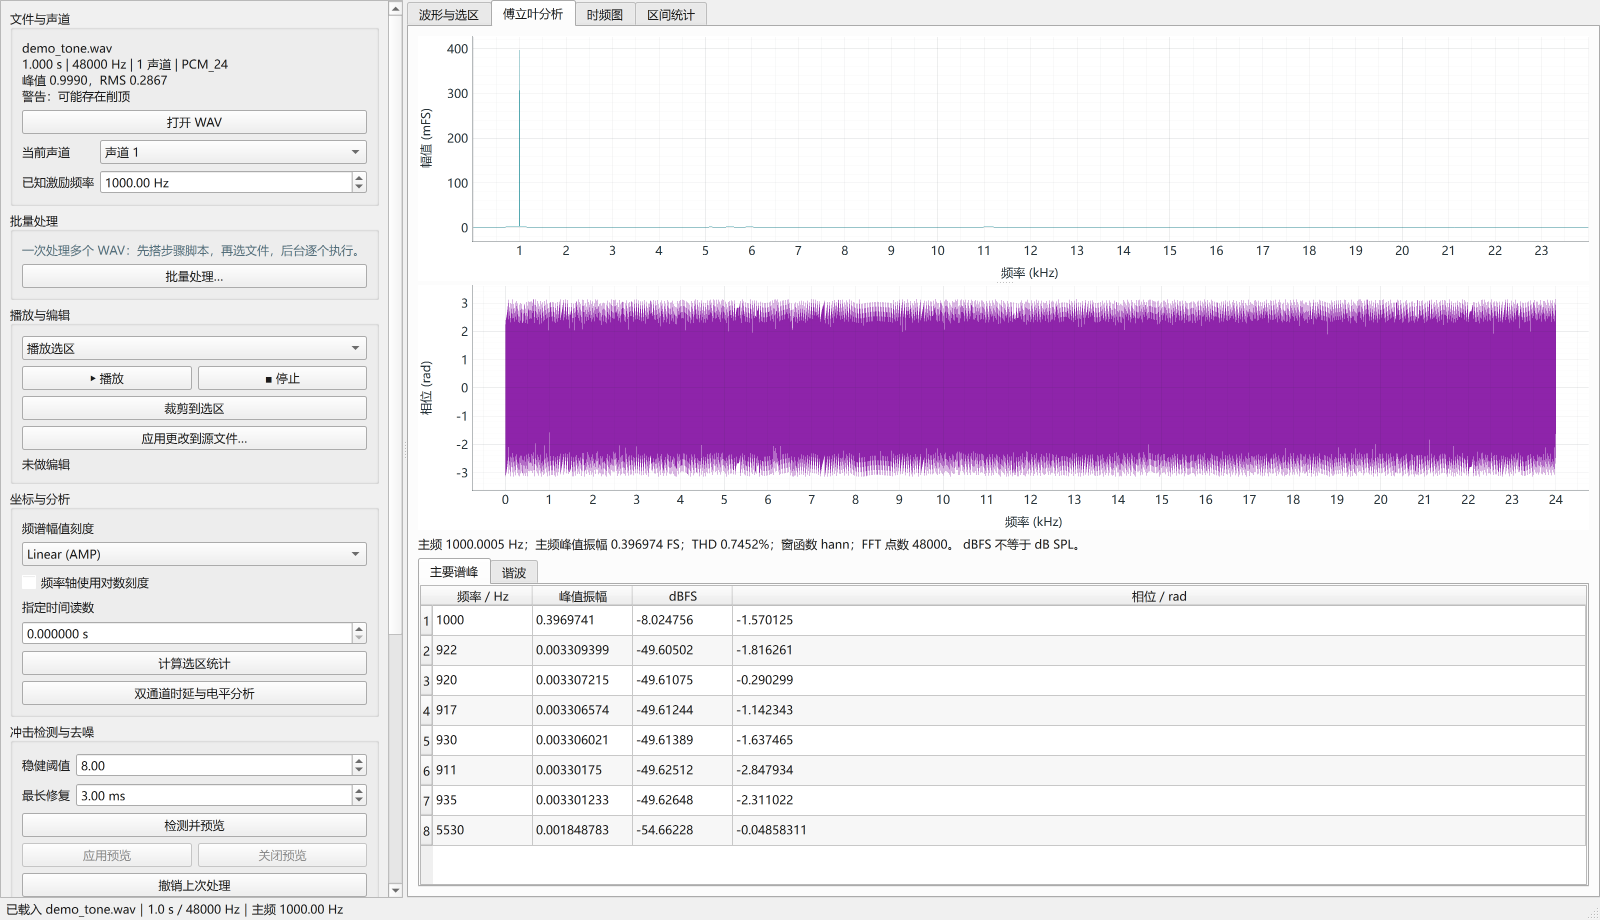
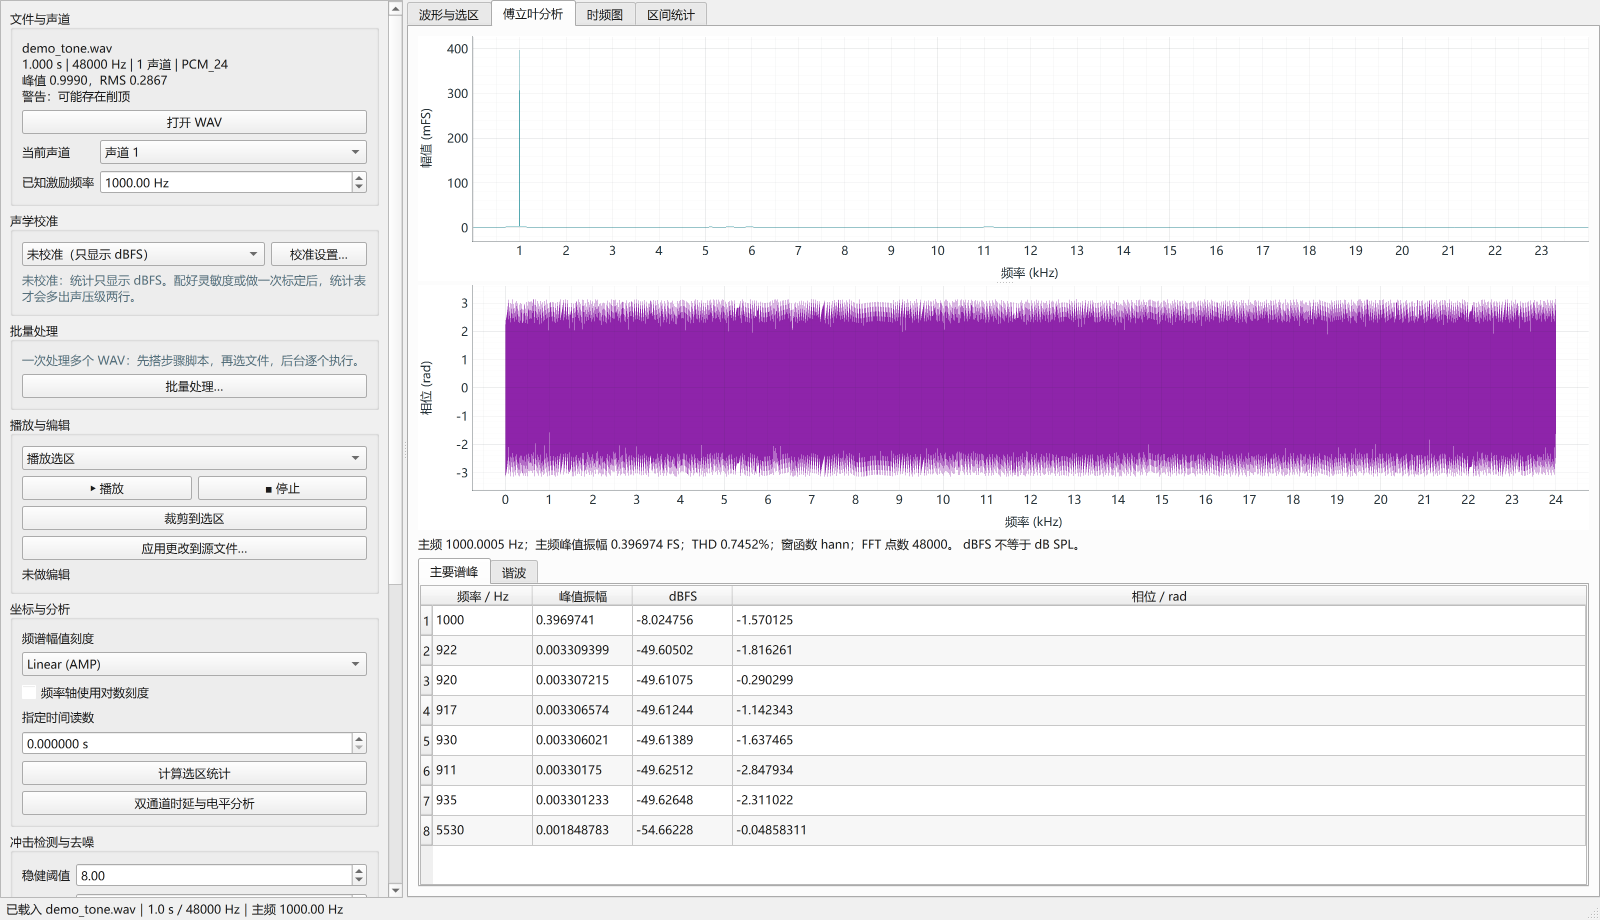
校准分组的按钮与说明按左侧栏宽度调整，README 截图重拍

Changed region(s): [[0.0, 0.213, 0.25, 0.9739]]

diff --git a/app/main_window.py b/app/main_window.py
@@ -221,8 +221,7 @@ class MainWindow(QMainWindow):
         item = self._current_calibration()
         if item is None:
             self.calibration_label.setText(
-                "未校准：统计只显示 dBFS。点“校准设置…”填入灵敏度或使用已知声压级标定后，"
-                "统计表会多出等效声压级与峰值声压级两行。")
+                "未校准：统计只显示 dBFS。配好灵敏度或做一次标定后，统计表才会多出声压级两行。")
             return
         offset = item.offset_db()
         self.calibration_label.setText(f"K = {offset:+.2f} dB（dB SPL = dBFS + K）")
@@ -283,8 +282,12 @@ class MainWindow(QMainWindow):
         calibration_layout = QVBoxLayout(calibration_group)
         self.calibration_combo = QComboBox()
         self.calibration_combo.setToolTip("选中的校准用于把 dBFS 换算成 dB SPL；未校准时只显示 dBFS")
+        # 下拉里放的是配置名，别让它按最长名字把按钮挤掉
+        self.calibration_combo.setSizeAdjustPolicy(QComboBox.AdjustToMinimumContentsLengthWithIcon)
+        self.calibration_combo.setMinimumContentsLength(10)
         self.calibration_combo.currentIndexChanged.connect(self._on_calibration_changed)
         calibration_button = QPushButton("校准设置…")
+        calibration_button.setMinimumWidth(96)
         calibration_button.clicked.connect(self.open_calibration_dialog)
         calibration_row = QHBoxLayout()
         calibration_row.addWidget(self.calibration_combo, 1)
